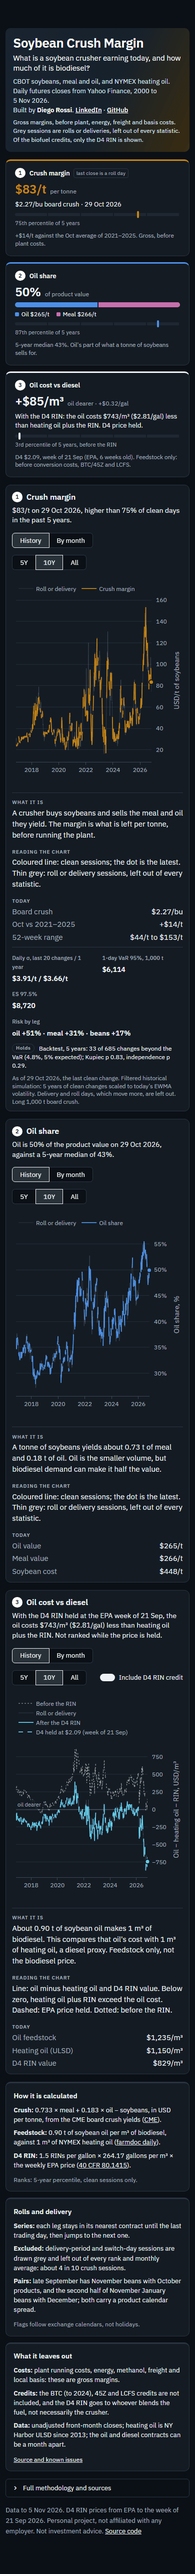
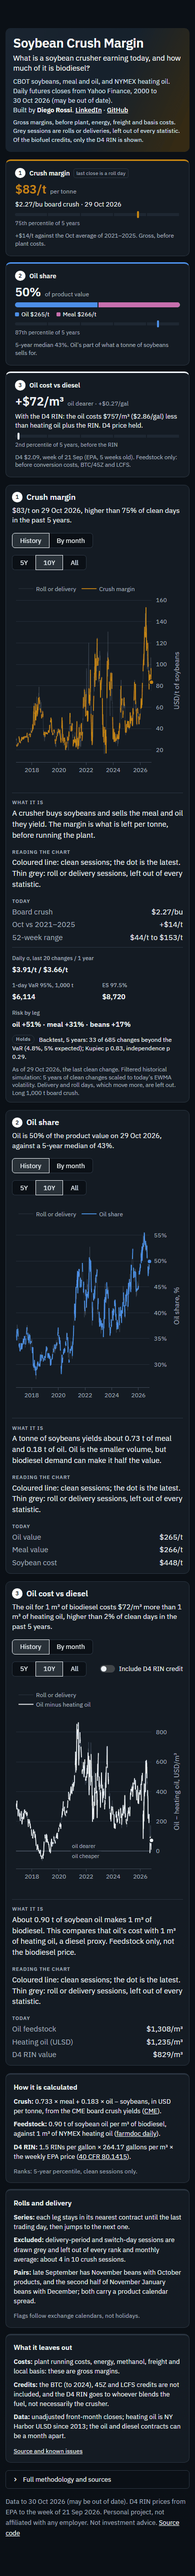
fix: give the daily sigma cell its own row in the phone risk grid
On a phone the four risk cells now read sigma (full width), VaR | ES,
then risk by leg (full width), instead of leaving an empty cell next to
ES. Extend the phone CSS test and refresh the 390 px screenshot.

diff --git a/tests/test_app.py b/tests/test_app.py
@@ -526,7 +526,7 @@ class TestSource:
     def test_risk_grid_is_two_by_two_on_a_phone(self) -> None:
         phone = CSS.split("@media (max-width:640px){", 1)[1].split("\n}", 1)[0]
         assert ".cm-risk dl{grid-template-columns:repeat(2,minmax(0,1fr))}" in phone
-        assert ".cm-risk-cell:last-child{grid-column:1/-1}" in phone
+        assert ".cm-risk-cell:first-child,.cm-risk-cell:last-child{grid-column:1/-1}" in phone
         assert ".cm-leg{white-space:nowrap}" in CSS
         assert ".cm-nowrap{white-space:nowrap}" in CSS
 

diff --git a/src/styles.py b/src/styles.py
@@ -123,7 +123,7 @@ APP_CSS: Final[str] = """<style>
  .cm-steps{display:none}
  [class*='st-key-card-sec']{padding:.7rem .8rem}
  .cm-risk dl{grid-template-columns:repeat(2,minmax(0,1fr))}
- .cm-risk-cell:last-child{grid-column:1/-1}
+ .cm-risk-cell:first-child,.cm-risk-cell:last-child{grid-column:1/-1}
  [data-testid='stPlotlyChart'] .nsewdrag{pointer-events:none}
  [data-testid='stPlotlyChart'] .modebar-container{display:none}
 }
